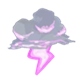
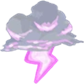
Changed Mental fortress, sentinel, metallicize, and rupture

Changed region(s): [[0.0, 0.0, 1.0, 1.0]]

diff --git a/src/main/java/prismaticmod/cards/Rupture2.java b/src/main/java/prismaticmod/cards/Rupture2.java
@@ -3,13 +3,12 @@ package prismaticmod.cards;
 import com.megacrit.cardcrawl.actions.common.ApplyPowerAction;
 import com.megacrit.cardcrawl.characters.AbstractPlayer;
 import com.megacrit.cardcrawl.monsters.AbstractMonster;
-import com.megacrit.cardcrawl.powers.MetallicizePower;
-import com.megacrit.cardcrawl.powers.RupturePower;
+import prismaticmod.powers.Rupture2Power;
 import prismaticmod.util.CardStats;
 import theprismatic.ThePrismatic;
 
-public class MetallicRupture extends BaseCard {
-    public static final String ID = makeID("Metallic Rupture"); //makeID adds the mod ID, so the final ID will be something like "modID:MyCard"
+public class Rupture2 extends BaseCard {
+    public static final String ID = makeID("Rupture"); //makeID adds the mod ID, so the final ID will be something like "modID:MyCard"
     private static final CardStats info = new CardStats(
             ThePrismatic.Enums.Red, //The card color. If you're making your own character, it'll look something like this. Otherwise, it'll be CardColor.RED or something similar for a basegame character color.
             CardType.POWER, //The type. ATTACK/SKILL/POWER/CURSE/STATUS
@@ -17,21 +16,18 @@ public class MetallicRupture extends BaseCard {
             CardTarget.SELF, //The target. Single target is ENEMY, all enemies is ALL_ENEMY. Look at cards similar to what you want to see what to use.
             1 //The card's base cost. -1 is X cost, -2 is no cost for unplayable cards like curses, or Reflex.
     );
-    private static final int baseMagicNumber = 3;
-    private static final int UPG_Number = 1;
-    private static final int baseStrengthNumber = 1;
-    private static final int UPG_Strength = 1;
+
     //These will be used in the constructor. Technically you can just use the values directly,
     //but constants at the top of the file are easy to adjust.
-    public MetallicRupture() {
+    public Rupture2() {
         super(ID, info); //Pass the required information to the BaseCard constructor.
+        int baseMagicNumber = 1;
+        int UPG_Number = 1;
         setMagic(baseMagicNumber, UPG_Number);
-        setCustomVar("S", baseStrengthNumber, UPG_Strength);
     }
 
     @Override
     public void use(AbstractPlayer p, AbstractMonster m) {
-        addToBot(new ApplyPowerAction(p, p, new MetallicizePower(p, magicNumber), magicNumber));
-        addToBot(new ApplyPowerAction(p, p, new RupturePower(p, customVar("S")), customVar("S")));
+        addToBot(new ApplyPowerAction(p, p, new Rupture2Power(magicNumber), magicNumber));
     }
 }

diff --git a/src/main/java/prismaticmod/cards/Sentinel2.java b/src/main/java/prismaticmod/cards/Sentinel2.java
@@ -1,0 +1,43 @@
+package prismaticmod.cards;
+
+import com.megacrit.cardcrawl.actions.common.*;
+import com.megacrit.cardcrawl.characters.AbstractPlayer;
+import com.megacrit.cardcrawl.monsters.AbstractMonster;
+import prismaticmod.util.CardStats;
+import theprismatic.ThePrismatic;
+
+import static com.megacrit.cardcrawl.dungeons.AbstractDungeon.player;
+
+public class Sentinel2 extends BaseCard {
+    public static final String ID = makeID("Sentinel"); //makeID adds the mod ID, so the final ID will be something like "modID:MyCard"
+    private static final CardStats info = new CardStats(
+            ThePrismatic.Enums.Red, //The card color. If you're making your own character, it'll look something like this. Otherwise, it'll be CardColor.RED or something similar for a basegame character color.
+            CardType.SKILL, //The type. ATTACK/SKILL/POWER/CURSE/STATUS
+            CardRarity.UNCOMMON, //Rarity. BASIC is for starting cards, then there's COMMON/UNCOMMON/RARE, and then SPECIAL and CURSE. SPECIAL is for cards you only get from events. Curse is for curses, except for special curses like Curse of the Bell and Necronomicurse.
+            CardTarget.SELF, //The target. Single target is ENEMY, all enemies is ALL_ENEMY. Look at cards similar to what you want to see what to use.
+            1 //The card's base cost. -1 is X cost, -2 is no cost for unplayable cards like curses, or Reflex.
+    );
+    //These will be used in the constructor. Technically you can just use the values directly,
+    //but constants at the top of the file are easy to adjust.
+
+    private static final int block = 5;
+    private static final int UPG_Block = 3;
+    private static final int baseMagicNumber = 2;
+    private static final int UPG_Number = 1;
+
+    public Sentinel2() {
+        super(ID, info); //Pass the required information to the BaseCard constructor.
+        setBlock(block, UPG_Block);
+        setMagic(baseMagicNumber, UPG_Number);
+
+    }
+
+    @Override
+    public void use(AbstractPlayer p, AbstractMonster m) {
+        addToBot(new GainBlockAction(p, block));
+    }
+    public void triggerOnManualDiscard(){
+        player.discardPile.moveToExhaustPile(this);
+        addToBot(new GainEnergyAction(magicNumber));
+    }
+}

diff --git a/src/main/java/prismaticmod/cards/MetallicFaith.java b/src/main/java/prismaticmod/cards/MetallicFaith.java
@@ -1,0 +1,35 @@
+package prismaticmod.cards;
+
+import com.megacrit.cardcrawl.actions.common.ApplyPowerAction;
+import com.megacrit.cardcrawl.characters.AbstractPlayer;
+import com.megacrit.cardcrawl.monsters.AbstractMonster;
+import com.megacrit.cardcrawl.powers.watcher.MantraPower;
+import prismaticmod.powers.MetallicFaithPower;
+import prismaticmod.util.CardStats;
+import theprismatic.ThePrismatic;
+
+public class MetallicFaith extends BaseCard {
+    public static final String ID = makeID("Metallic Faith"); //makeID adds the mod ID, so the final ID will be something like "modID:MyCard"
+    private static final CardStats info = new CardStats(
+            ThePrismatic.Enums.Red, //The card color. If you're making your own character, it'll look something like this. Otherwise, it'll be CardColor.RED or something similar for a basegame character color.
+            CardType.POWER, //The type. ATTACK/SKILL/POWER/CURSE/STATUS
+            CardRarity.UNCOMMON, //Rarity. BASIC is for starting cards, then there's COMMON/UNCOMMON/RARE, and then SPECIAL and CURSE. SPECIAL is for cards you only get from events. Curse is for curses, except for special curses like Curse of the Bell and Necronomicurse.
+            CardTarget.SELF, //The target. Single target is ENEMY, all enemies is ALL_ENEMY. Look at cards similar to what you want to see what to use.
+            1 //The card's base cost. -1 is X cost, -2 is no cost for unplayable cards like curses, or Reflex.
+    );
+
+    //These will be used in the constructor. Technically you can just use the values directly,
+    //but constants at the top of the file are easy to adjust.
+    public MetallicFaith() {
+        super(ID, info); //Pass the required information to the BaseCard constructor.
+        int baseMagicNumber = 3;
+        int UPG_Number = 1;
+        setMagic(baseMagicNumber, UPG_Number);
+    }
+
+    @Override
+    public void use(AbstractPlayer p, AbstractMonster m) {
+        addToBot(new ApplyPowerAction(p, p, new MantraPower(p, magicNumber), magicNumber));
+        addToBot(new ApplyPowerAction(p, p, new MetallicFaithPower(1), 1));
+    }
+}

diff --git a/src/main/java/prismaticmod/powers/MentalFortress2Power.java b/src/main/java/prismaticmod/powers/MentalFortress2Power.java
@@ -1,14 +1,14 @@
 package prismaticmod.powers;
 
 import com.megacrit.cardcrawl.actions.common.GainBlockAction;
+import com.megacrit.cardcrawl.actions.utility.UseCardAction;
 import com.megacrit.cardcrawl.cards.AbstractCard;
 import com.megacrit.cardcrawl.stances.AbstractStance;
-import com.evacipated.cardcrawl.mod.stslib.patches.bothInterfaces.OnCreateCardInterface;
 
 import static com.megacrit.cardcrawl.dungeons.AbstractDungeon.player;
 import static prismaticmod.BasicMod.makeID;
 
-public class MentalFortress2Power extends BasePower implements OnCreateCardInterface {
+public class MentalFortress2Power extends BasePower {
 
     public static final String ID = makeID("Mental Fortress");
     public MentalFortress2Power(int amount) {
@@ -18,15 +18,6 @@ public class MentalFortress2Power extends BasePower implements OnCreateCardInter
     public void updateDescription() {
         this.description = DESCRIPTIONS[0] + this.amount + DESCRIPTIONS[1];
     }
-    boolean playerTurn = true;
-
-    public void atStartOfTurn(){
-        playerTurn = true;
-    }
-
-    public void atEndOfTurnPreEndTurnCards(boolean isPlayer){
-        playerTurn = false;
-    }
 
     public void onChangeStance(AbstractStance oldStance, AbstractStance newStance) {
         if (!oldStance.ID.equals(newStance.ID)) {
@@ -35,9 +26,8 @@ public class MentalFortress2Power extends BasePower implements OnCreateCardInter
         }
     }
 
-    @Override
-    public void onCreateCard(AbstractCard abstractCard) {
-        if(playerTurn || abstractCard.type != AbstractCard.CardType.STATUS){
+    public void onUseCard(AbstractCard card, UseCardAction action){
+        if (card.type == AbstractCard.CardType.POWER && this.amount > 0) {
             flash();
             addToBot(new GainBlockAction(this.owner, this.owner, this.amount));
         }

diff --git a/src/main/java/prismaticmod/powers/Rupture2Power.java b/src/main/java/prismaticmod/powers/Rupture2Power.java
@@ -1,0 +1,40 @@
+package prismaticmod.powers;
+import com.megacrit.cardcrawl.actions.common.ApplyPowerAction;
+import com.megacrit.cardcrawl.actions.utility.UseCardAction;
+import com.megacrit.cardcrawl.cards.AbstractCard;
+import com.megacrit.cardcrawl.cards.DamageInfo;
+import com.megacrit.cardcrawl.powers.StrengthPower;
+
+import static com.megacrit.cardcrawl.dungeons.AbstractDungeon.player;
+import static prismaticmod.BasicMod.makeID;
+
+public class Rupture2Power extends BasePower {
+
+    public static final String ID = makeID("Rupture");
+
+    public Rupture2Power(int amount) {
+        super(ID, PowerType.BUFF, false, player, player, amount, true);
+        this.amount = amount;
+    }
+
+    public void updateDescription() {
+        this.description = DESCRIPTIONS[0] + this.amount + DESCRIPTIONS[1];
+    }
+
+    public void stackPower(int stackAmount) {
+        this.fontScale = 8.0F;
+        this.amount += stackAmount;
+    }
+    public void wasHPLost(DamageInfo info, int damageAmount) {
+        if (damageAmount > 0 && info.owner == this.owner) {
+            flash();
+            addToTop(new ApplyPowerAction(this.owner, this.owner, new StrengthPower(this.owner, this.amount), this.amount));
+        }
+    }
+    public void onUseCard(AbstractCard card, UseCardAction action){
+        if (card.type == AbstractCard.CardType.POWER && this.amount > 0) {
+            flash();
+            addToTop(new ApplyPowerAction(this.owner, this.owner, new StrengthPower(this.owner, this.amount), this.amount));
+        }
+    }
+}

diff --git a/src/main/java/prismaticmod/powers/MetallicFaithPower.java b/src/main/java/prismaticmod/powers/MetallicFaithPower.java
@@ -1,0 +1,36 @@
+package prismaticmod.powers;
+import com.megacrit.cardcrawl.actions.common.GainBlockAction;
+import com.megacrit.cardcrawl.powers.watcher.MantraPower;
+
+import static com.megacrit.cardcrawl.dungeons.AbstractDungeon.player;
+import static prismaticmod.BasicMod.makeID;
+
+public class MetallicFaithPower extends BasePower {
+
+    public static final String ID = makeID("Metallic Faith");
+
+    public MetallicFaithPower(int amount) {
+        super(ID, PowerType.BUFF, false, player, player, amount, true);
+        this.amount = amount;
+    }
+
+    public void updateDescription() {
+        if(this.amount == 1){
+            this.description = DESCRIPTIONS[0];
+        } else {
+            this.description = DESCRIPTIONS[1] + this.amount + DESCRIPTIONS[2];
+        }
+    }
+
+    public void stackPower(int stackAmount) {
+        this.fontScale = 8.0F;
+        this.amount += stackAmount;
+    }
+
+    public void atEndOfTurnPreEndTurnCards(boolean isPlayer) {
+        if(player.hasPower(MantraPower.POWER_ID)){
+            flash();
+            addToBot(new GainBlockAction(this.owner, this.owner, this.amount*player.getPower(MantraPower.POWER_ID).amount));
+        }
+    }
+}

diff --git a/src/main/java/theprismatic/ThePrismatic.java b/src/main/java/theprismatic/ThePrismatic.java
@@ -147,7 +147,7 @@ public class ThePrismatic extends CustomPlayer {
         tmpPool.add(new IronWave());
         tmpPool.add(new Juggernaut2());
         tmpPool.add(new LimitBreak2());
-        //tmpPool.add(new Metallicize());
+        tmpPool.add(new MetallicFaith());
         tmpPool.add(new Offering());
         tmpPool.add(new PerfectedStrike());
         tmpPool.add(new PommelStrike());
@@ -157,11 +157,11 @@ public class ThePrismatic extends CustomPlayer {
         tmpPool.add(new Rampage());
         tmpPool.add(new Reaper());
         tmpPool.add(new RecklessCharge());
-        tmpPool.add(new MetallicRupture());
+        tmpPool.add(new Rupture2()); //tmpPool.add(new MetallicRupture());
         tmpPool.add(new SearingBlow2());
         tmpPool.add(new SecondWind());
         tmpPool.add(new SeeingRed());
-        tmpPool.add(new Sentinel());
+        tmpPool.add(new Sentinel2());
         tmpPool.add(new SeverSoul2());
         tmpPool.add(new Shockwave2());
         tmpPool.add(new ShrugItOff());

diff --git a/src/main/java/prismaticmod/patches/ScryDiscardsPatch.java b/src/main/java/prismaticmod/patches/ScryDiscardsPatch.java
@@ -22,7 +22,7 @@ public class ScryDiscardsPatch {
     public static void Insert() {
         for(AbstractCard c : AbstractDungeon.gridSelectScreen.selectedCards){
             GameActionManager.incrementDiscard(false);
-            if(c instanceof DeadlyPoison2 || c instanceof Reflex2 || c instanceof Tactician2 || c instanceof Weave2 || c instanceof Vigilance2 || c instanceof Eruption2){
+            if(c instanceof DeadlyPoison2 || c instanceof Reflex2 || c instanceof Tactician2 || c instanceof Weave2 || c instanceof Vigilance2 || c instanceof Eruption2 || c instanceof Sentinel2){
                 c.triggerOnManualDiscard();
             }
         }
